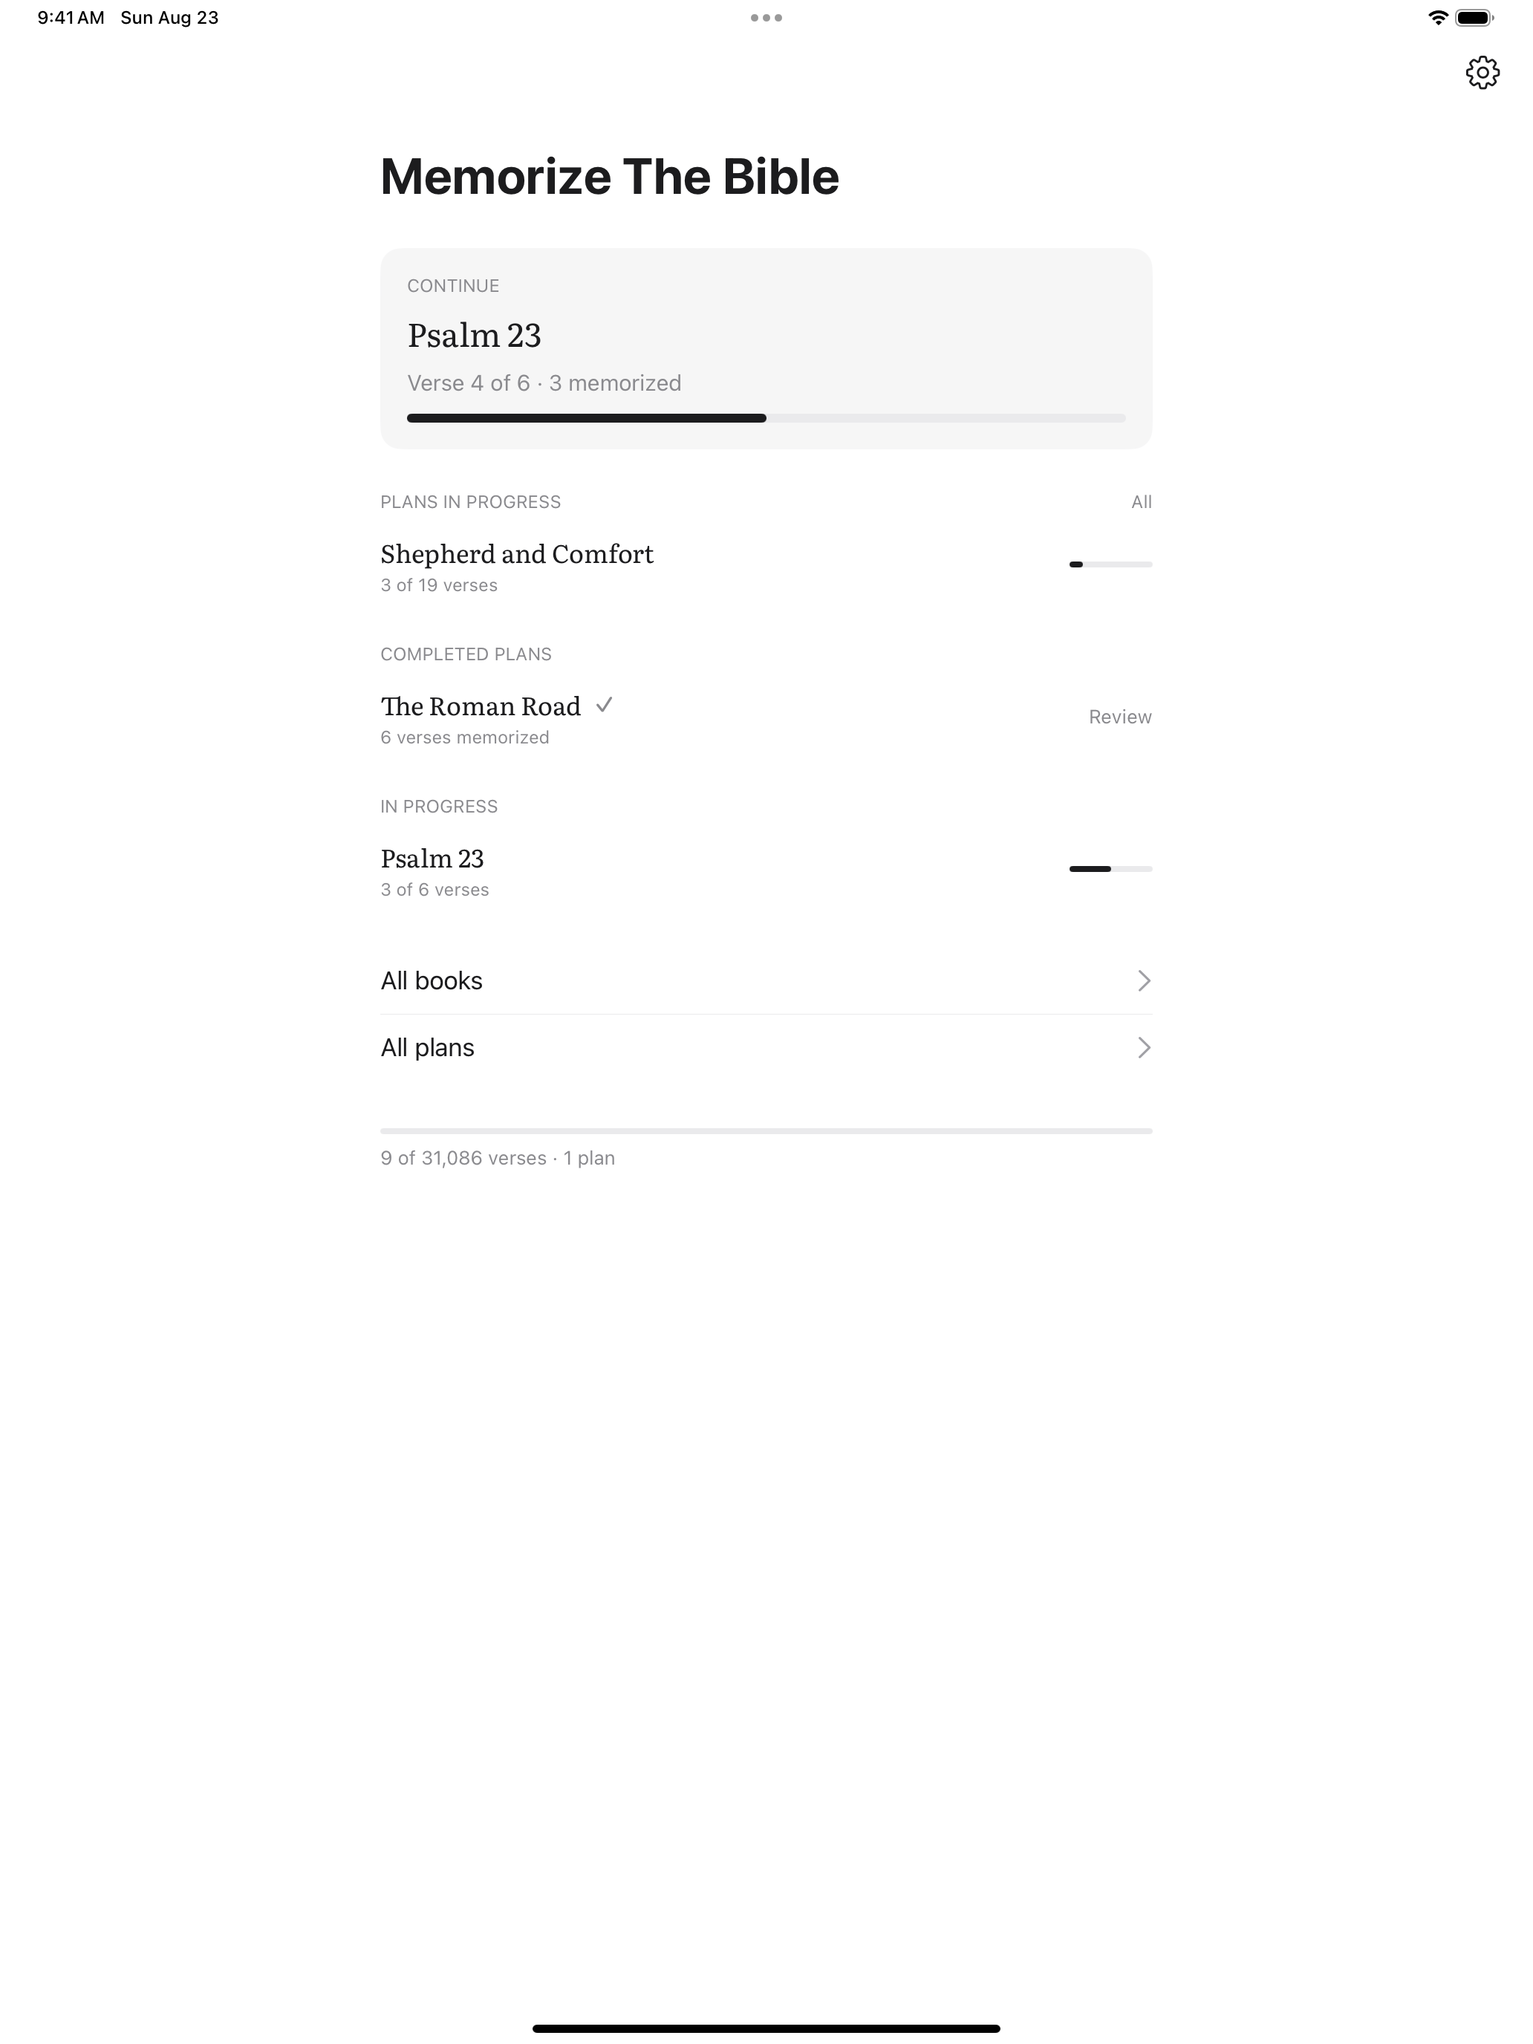
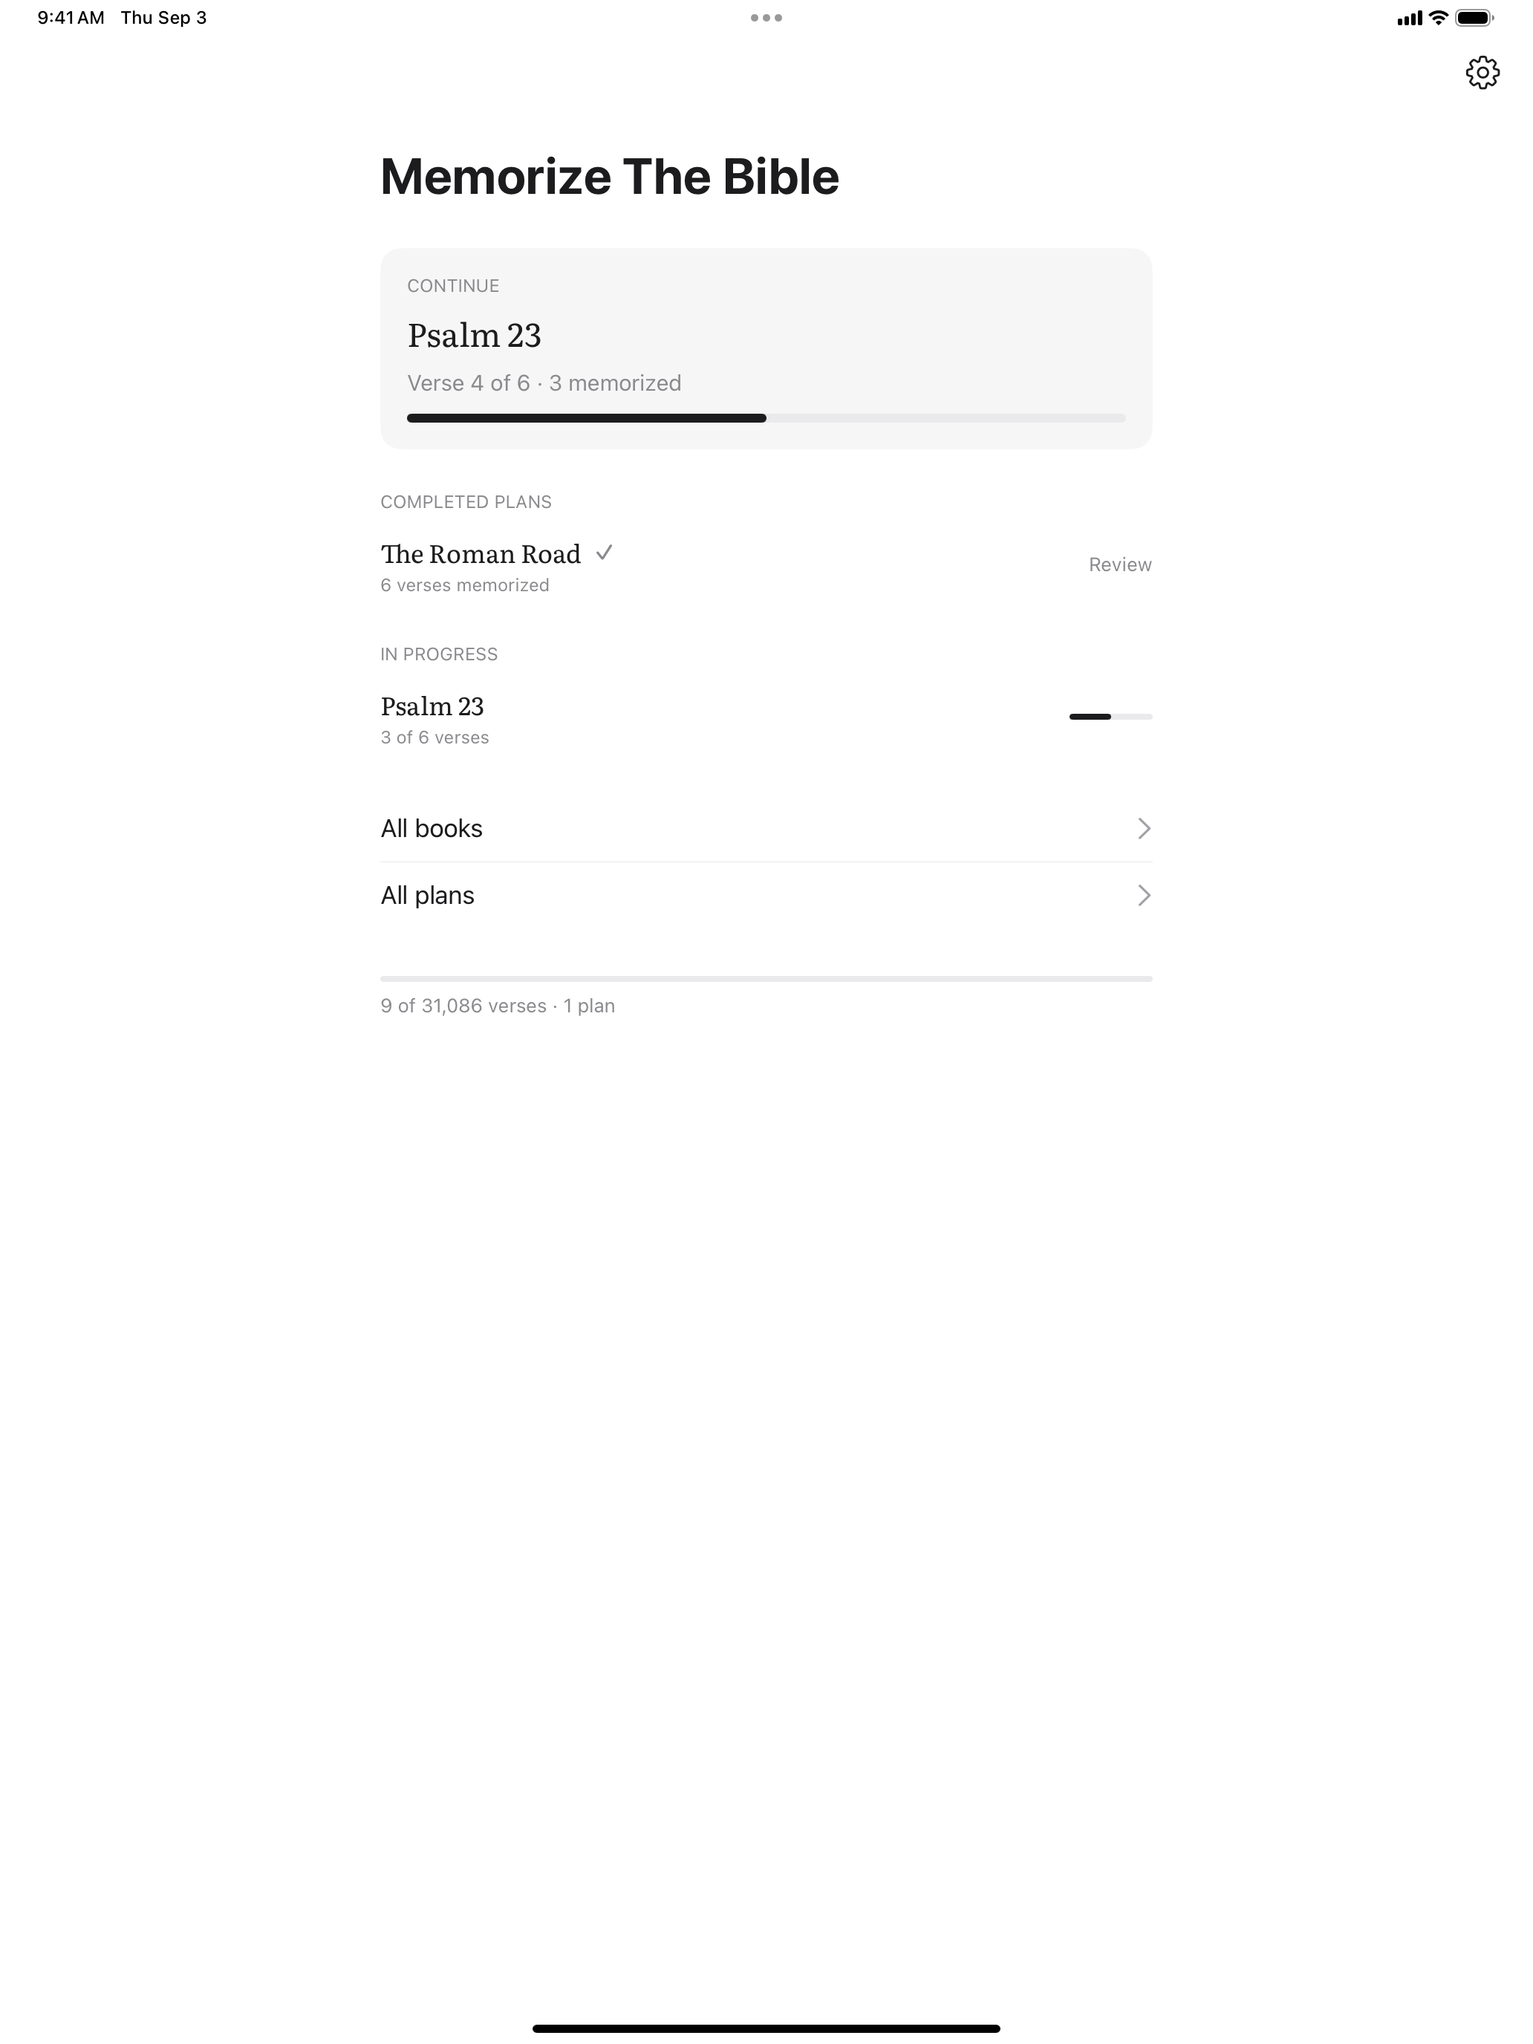
Store listing for 1.1
Regenerated the two screenshots the release changed, in all three sizes.
3-home was advertising the bug this version fixes: it showed a "Plans in
progress — Shepherd and Comfort" section for a plan nobody had taken on,
which appeared only because the seed memorizes Psalm 23:1–3 and that plan
contains Psalm 23. 5-plan-detail gains the Stop memorizing row. The other
four shots are unchanged and were left alone.

What's New is written for 1.1 rather than still announcing the first
release. The walkthrough and navigation fixes are left out of it: nobody
who has not hit them would recognise them.

Promotional text now points at what actually shipped, instead of repeating
the description's opening lines directly above the description. It is
version-specific, so the evergreen line it replaced is kept alongside it to
go back to.

The description picks up the graded peek and a section on reading before
committing; the App Review notes pick up the same two changes, since they
tell a reviewer which buttons to press. Trimmed three redundant clauses
from the reply to keep it inside the 4,000-character Notes limit, which the
edits had pushed it past.

AppReviewNotes.md was untracked until now, though the listing already
pointed at it as the canonical copy.

Changed region(s): [[0.2481, 0.3125, 0.3721, 0.4375], [0.2481, 0.2188, 0.4031, 0.2812], [0.2481, 0.4688, 0.3101, 0.5312]]

diff --git a/AppReviewNotes.md b/AppReviewNotes.md
@@ -1,0 +1,111 @@
+# App Review Information — Notes
+
+Paste this into **App Store Connect → App Review Information → Notes**, and send
+the same text as the reply to the Guideline 2.1 message. Apple asked for it in
+Notes "for future submissions", so it should live there permanently, not only in
+the reply.
+
+The device list in item 2 is filled in with the real devices and is ready to
+send as written. The reply below is **3982 characters**, inside the Notes
+field's 4,000 limit — keep it under that if you edit it. It has very little
+room left: adding a sentence means cutting one.
+
+---
+
+## Reply text
+
+```
+Answers to each item below.
+
+1. SCREEN RECORDING
+Attached, captured on a physical iPhone 17 running iOS 26.5.2. It starts from the Home Screen and walks the core flow: the first-run walkthrough, memorizing a verse through every masking level (including tapping a blank to peek), the cumulative recitation step, plans, sharing a plan, and turning on the optional daily reminder — including the notification prompt, the only permission the app requests.
+
+2. DEVICES AND OS TESTED
+Physical: iPhone 17, iOS 26.5.2.
+Simulator (Xcode 26.6): iPhone 17 Pro Max and iPhone 13 Pro Max on iOS 26.2; iPad Pro 13-inch (M5) on iPadOS 26.5; iPad Pro 13-inch (M4) on iPadOS 17.5.
+Minimum supported OS is iOS 17.0. iPad has been exercised in Simulator at both ends of that range, but not on physical iPad hardware.
+
+3. PURPOSE AND TARGET AUDIENCE
+The app helps people commit scripture to memory.
+
+Rereading a verse does not memorize it, because rereading tests recognition rather than recall. This app removes the words instead: a verse is read aloud a few times, then a quarter of its words become blanks, then half, then three quarters, then all of them, with the user reciting aloud at each level. Tapping a blank reveals that word's first letter briefly; tapping again reveals the whole word. After each verse the user recites everything so far together, so a chapter becomes a passage, not isolated verses.
+
+Audience: anyone memorizing scripture — personal study, preparing to teach, parents and children, small groups. A study aid with no social layer: the whole Bible is included, the method is repeatable, and it works offline with nothing to sign up for.
+
+4. SETUP AND ACCESS
+No setup, account, or credentials — every feature works immediately on first launch.
+
+On first launch the app offers a short optional walkthrough built on a two-verse demo plan that shows the whole loop in about a minute. That is the fastest way to see the core functionality. It can be skipped, and rerun from Settings > Walkthrough.
+
+Direct routes: a chapter is All books > book > chapter, which opens it to read, with Start memorizing at the foot. A plan is All plans > plan (e.g. "The Roman Road") > Start memorizing. To create and share one: New plan > add passages > Save, then use the share button. Any completed chapter or plan reopens in Review. The optional daily reminder is Settings > Daily reminder.
+
+5. EXTERNAL SERVICES, TOOLS, AND PLATFORMS
+None. No backend, API, data provider, authentication, payment processor, ad network, analytics, crash reporting, or AI service. The app contains no networking code and makes no network requests; it works identically in airplane mode. The only frameworks linked are Apple's own.
+
+Scripture is bundled in the binary and progress is one file in the app's container, so nothing is uploaded. Plans shared as links carry the plan encoded in the URL itself — no server is involved.
+
+6. REGIONAL DIFFERENCES
+None. Identical in every region and storefront: no geo-gating, no region-specific content, no regional pricing (free, no in-app purchases), and no server that could vary. One English translation, English-only interface.
+
+7. PROTECTED THIRD-PARTY MATERIAL
+The text is the Berean Standard Bible (BSB), which its publisher has formally dedicated to the public domain; it may be used freely without permission, licence, or royalty. The publisher's statement and the text are at https://bereanbible.com. The app carries the requested attribution in Settings > About and in the App Store description, naming the BSB, its public-domain dedication, and BereanBible.com. No other third-party material is included, and the app is not in a regulated industry.
+
+ALSO WORTH KNOWING
+No account exists, so no demo credentials are possible. No user-generated content is shared to any service, so reporting and blocking do not apply. Notification authorization is the only permission the app requests. App Privacy is "Data Not Collected": no code path can transmit anything.
+```
+
+---
+
+## The screen recording — what to film
+
+Apple requires this on a **physical device**, not the Simulator. Record with
+iOS's built-in screen recorder (Control Centre), then trim. Two to four minutes
+is plenty; do not rush past the masking levels, which are the point of the app.
+
+1. Start on the Home Screen and tap the app icon, so the launch is captured.
+2. Take the walkthrough when it offers — the two-verse demo shows the entire
+   loop quickly, and it is the clearest possible demonstration of the concept.
+3. Then open a real chapter: All books → Psalms → Psalm 23.
+4. Work one verse the whole way: Read ×3, then each masking level. **Tap a blank
+   to show the peek behaviour.** Finish at "I know it".
+5. Let the cumulative recitation step appear and confirm it.
+6. All plans → The Roman Road → Start, so plans are shown as distinct from
+   chapters.
+7. New plan → add a passage → Save → open it → share button, so the share sheet
+   and the generated link are on camera.
+8. Settings → Daily reminder on → **let the iOS notification prompt appear on
+   camera.** Apple explicitly asked for permission prompts to be shown.
+9. Finish on a completed chapter opening into Review.
+
+## Before you resubmit
+
+- Item 2 is filled in with the real devices. It states plainly that iPad has
+  been tested in Simulator only — say nothing stronger, because Apple reviews on
+  physical hardware and will find out.
+- **The iPad decision is the one open risk.** See below.
+- Nothing about the app itself needs changing for this rejection. It is an
+  information request, not a defect.
+
+## The iPad risk, stated plainly
+
+Shipping iPad support means Apple reviews the iPad experience on a physical
+iPad. Two things work against that right now:
+
+1. The layout is adapted, not designed. On a 13" iPad the home screen fills
+   about a third of the height and leaves the rest empty. It is not broken, but
+   it is not a considered iPad app either.
+2. It has never run on physical iPad hardware, so nothing has been validated
+   against real touch targets, real memory, or real rotation.
+
+Neither is automatically a rejection, but this submission has already been
+bounced once, and iPad doubles the surface being judged for no gain on a 1.0.
+
+The lower-risk path is to ship iPhone-only now and add iPad in 1.1, once there
+is a device to test on and a layout worth showing:
+
+```
+TARGETED_DEVICE_FAMILY = 1;      // in both build configurations
+```
+
+Then drop `AppStore/screenshots/ipad-13/` from the listing. The iPad screenshots
+are already made and will keep, so nothing is wasted by waiting.

diff --git a/AppStoreListing.md b/AppStoreListing.md
@@ -42,20 +42,30 @@ No spaces after commas — they count against the 100. Nothing here repeats a wo
 from the name or subtitle. No competitor app names (Apple rejects those), and no
 translation names the app does not ship.
 
-## Promotional text — 144 / 170
+## Promotional text — 164 / 170
 
-Editable without shipping a build, so it is the place for anything seasonal.
+Editable without shipping a build, so it is the place for anything seasonal —
+and the one field worth pointing at whatever shipped most recently. It sits
+directly above the description, so it should never repeat the description's
+opening lines.
+
+```
+New in 1.1: read any chapter or plan right through before you commit to it. And a tap on a blank now gives you just the first letter — tap again for the whole word.
+```
+
+Being version-specific, this one needs retiring when 1.1 stops being news. The
+evergreen line it replaced, to go back to:
 
 ```
 Read a verse, then say it back as the words disappear one by one. The whole Bible, entirely offline — no account, no ads, nothing sent anywhere.
 ```
 
-## Description — 2,524 / 4,000
+## Description — 2,858 / 4,000
 
 ```
 Memorize The Bible teaches a verse the way people actually learn one.
 
-Read it aloud a few times. Then say it back as the words disappear — a quarter at a time, then half, then three quarters, until you are reciting it with nothing on the screen. Tap any blank to peek at the word underneath for a moment. Peeking is free right up to the last pass, where the whole point is to have it.
+Read it aloud a few times. Then say it back as the words disappear — a quarter at a time, then half, then three quarters, until you are reciting it with nothing on the screen. Tap any blank for the first letter of the word underneath, and again for the whole of it. Peeking is free right up to the last pass, where the whole point is to have it.
 
 After each verse you recite everything up to that point together, so a chapter becomes a passage rather than a pile of verses.
 
@@ -66,6 +76,9 @@ MEMORY PLANS
 Learn a set of verses together: the Roman Road, the Sermon on the Mount, the Lord's Prayer, the Fruit of the Spirit, or any plan you assemble yourself. A verse learned in a plan is already learned in its chapter — mastery belongs to the verse, so nothing is ever counted twice or learned twice over.
 
 Custom plans can be shared with a link. The plan travels inside the link itself, so there is no server involved and nothing to sign up for. Whoever you send it to sees exactly what it holds before deciding to keep it.
+
+LOOK BEFORE YOU COMMIT
+Read any book, chapter or plan straight through before deciding anything. Nothing reaches your home screen until you tap Start memorizing, so what waits for you there is only ever the work you actually chose — and you can put a plan back down again without losing a verse of it.
 
 WORDS THAT STAY PUT
 A blank is the same word drawn invisibly, so a line breaks in exactly the same place at every level and at every text size. Nothing reflows as you go, and the shape of the verse on the page becomes part of how you remember it.
@@ -87,7 +100,23 @@ A gentle daily reminder is available, scheduled on your device, and off until yo
 Scripture quotations are from the Berean Standard Bible (BSB), which has been dedicated to the public domain. Free resources are available at BereanBible.com.
 ```
 
-## What's New — 231
+## What's New — 495
+
+For 1.1. The walkthrough and navigation fixes are deliberately left out: nobody
+who has not hit them would recognise them, and this field reads better when
+every line is something a user would notice.
+
+```
+Browse before you commit.
+
+Open any book, chapter or plan and read it in full. Nothing reaches your home screen until you tap Start memorizing, so you can look around without cluttering up what you are actually working on — and take a plan back off again whenever you like, without losing a verse of it.
+
+Peeking is gentler. Tap a blank once for its first letter, again for the whole word. Either way it closes on its own.
+
+Finishing something is celebrated properly now, wherever you finish it.
+```
+
+The 1.0 text, for the record:
 
 ```
 The first release.
@@ -147,17 +176,10 @@ scheduled on-device by iOS and involve no push server, so nothing is collected.
 
 ## App Review notes
 
-```
-No account or sign-in is required — open the app and everything is available immediately.
-
-The app makes no network requests at all, so nothing needs to be reachable for review. There are no in-app purchases and no advertising.
-
-A first-run walkthrough offers a two-verse demo plan; it can be skipped, and rerun from Settings.
-
-Scripture is the Berean Standard Bible, which has been dedicated to the public domain (BereanBible.com). The attribution appears in Settings > About.
-
-Universal links: shared-plan links point at https://aarontrank.com/projects/memorize-the-bible/plan and open in the app. Opening one without the app installed lands on a page explaining what the link is.
-```
+The full text lives in `AppReviewNotes.md` — it answers the seven questions
+Apple's Guideline 2.1 template asks, and belongs in the **App Review Information
+→ Notes** field permanently, not just in a reply. A thin Notes field is what
+triggers that rejection in the first place.
 
 ---
 
@@ -170,7 +192,7 @@ order, since the first two are what most people ever see.
 |---|---|---|
 | 1 | `1-ladder.png` | Psalm 23 mid-ladder, blanks in the active verse — the mechanic, first |
 | 2 | `2-full-mask.png` | The same verse fully hidden, "I know it" |
-| 3 | `3-home.png` | Continue, plans in progress, a completed plan, 9 of 31,086 |
+| 3 | `3-home.png` | Continue, a completed plan, a chapter in progress, 9 of 31,086 |
 | 4 | `4-plans.png` | Built-in plans and one of your own |
 | 5 | `5-plan-detail.png` | The Roman Road, 3 of 6, verse by verse |
 | 6 | `6-review.png` | A memorized psalm reviewed whole at 50% hidden |
@@ -180,6 +202,11 @@ order, since the first two are what most people ever see.
 | `iphone-6.5/` | 1284 × 2778 | iPhone 6.5" — what App Store Connect asked for |
 | `iphone-6.9/` | 1320 × 2868 | iPhone 6.9" — the newer slot, if the record offers it |
 | `ipad-13/` | 2064 × 2752 | iPad 12.9"/13" |
+
+The iPad set is shot on iPadOS 17.5 rather than 26.x on purpose: iPadOS 26 draws
+a window-resize grabber in the bottom-right corner, which is system chrome but
+reads as a rendering defect in a store screenshot. Screenshots carry no
+latest-OS requirement — only Apple's review recording does.
 
 Regenerate with `scripts/shoot.sh <sim-udid> <outdir>` after pinning the status
 bar to Apple's convention:
